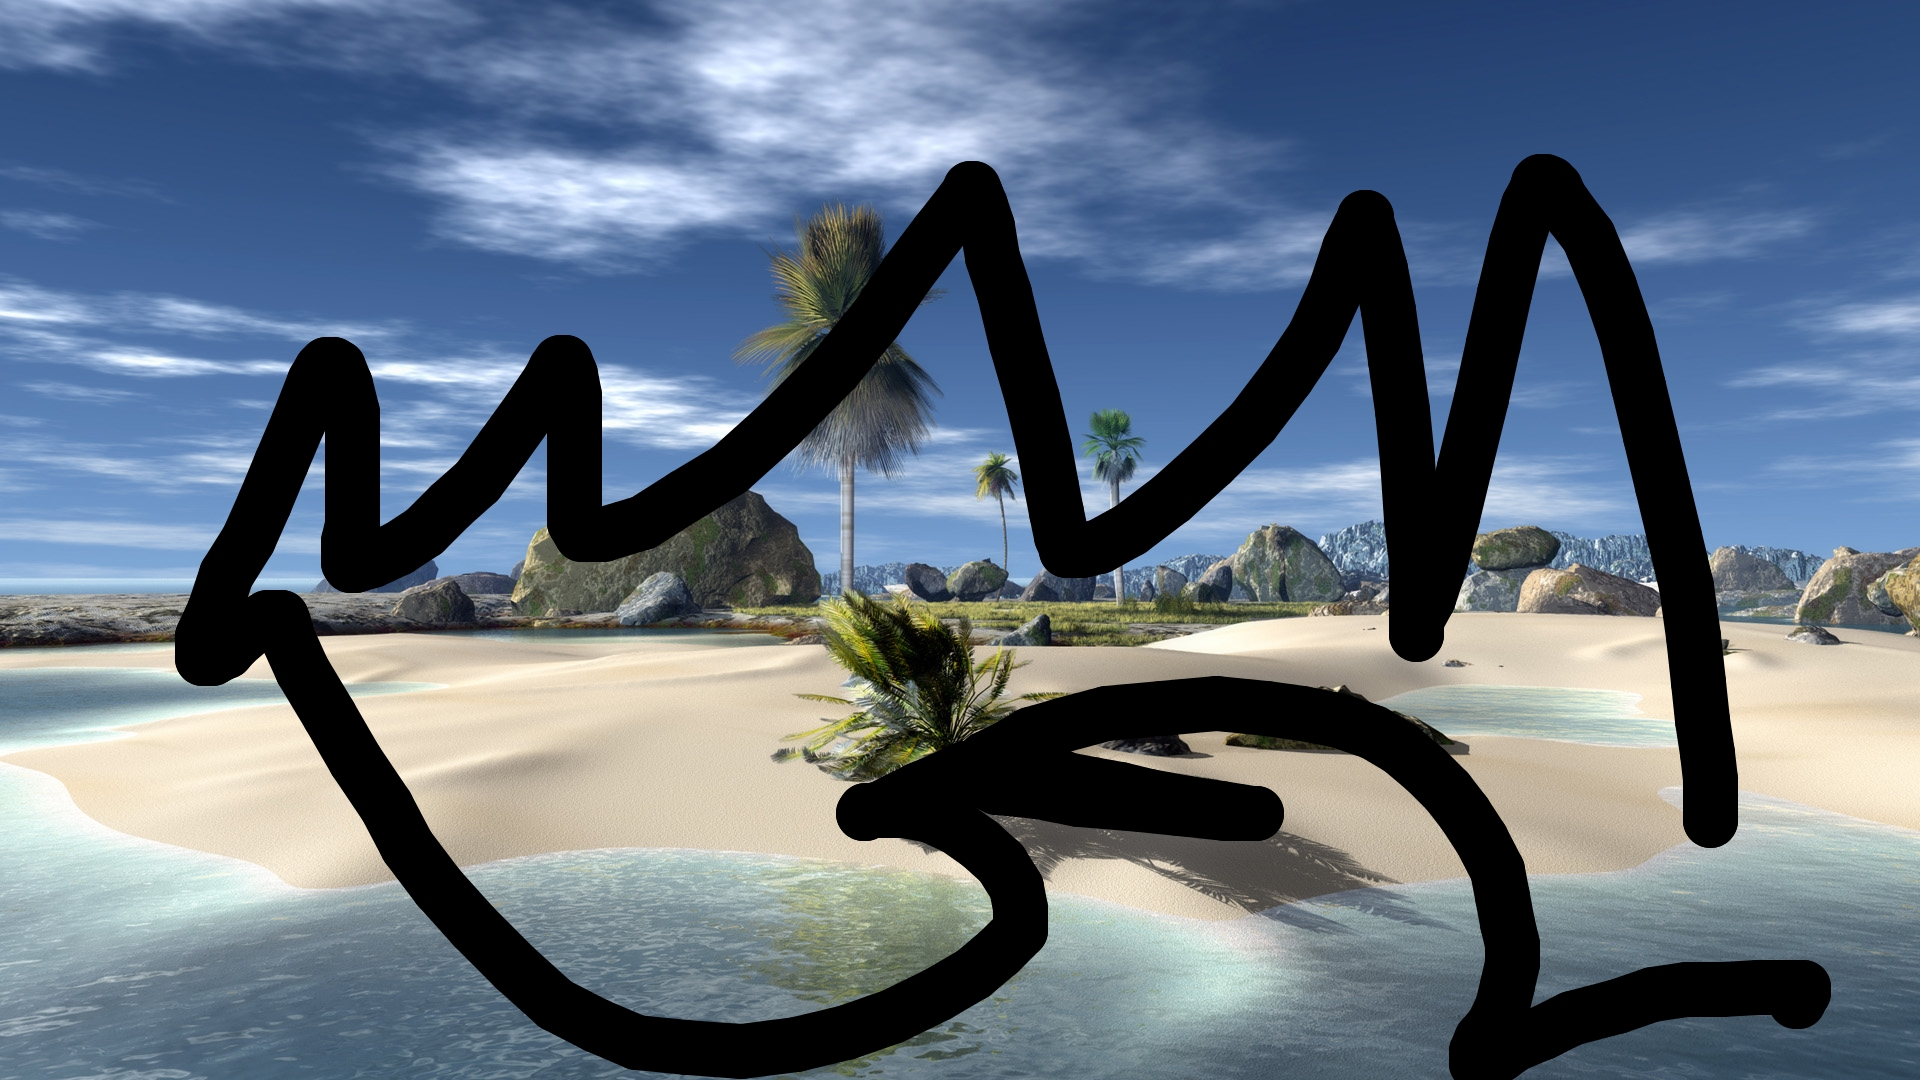
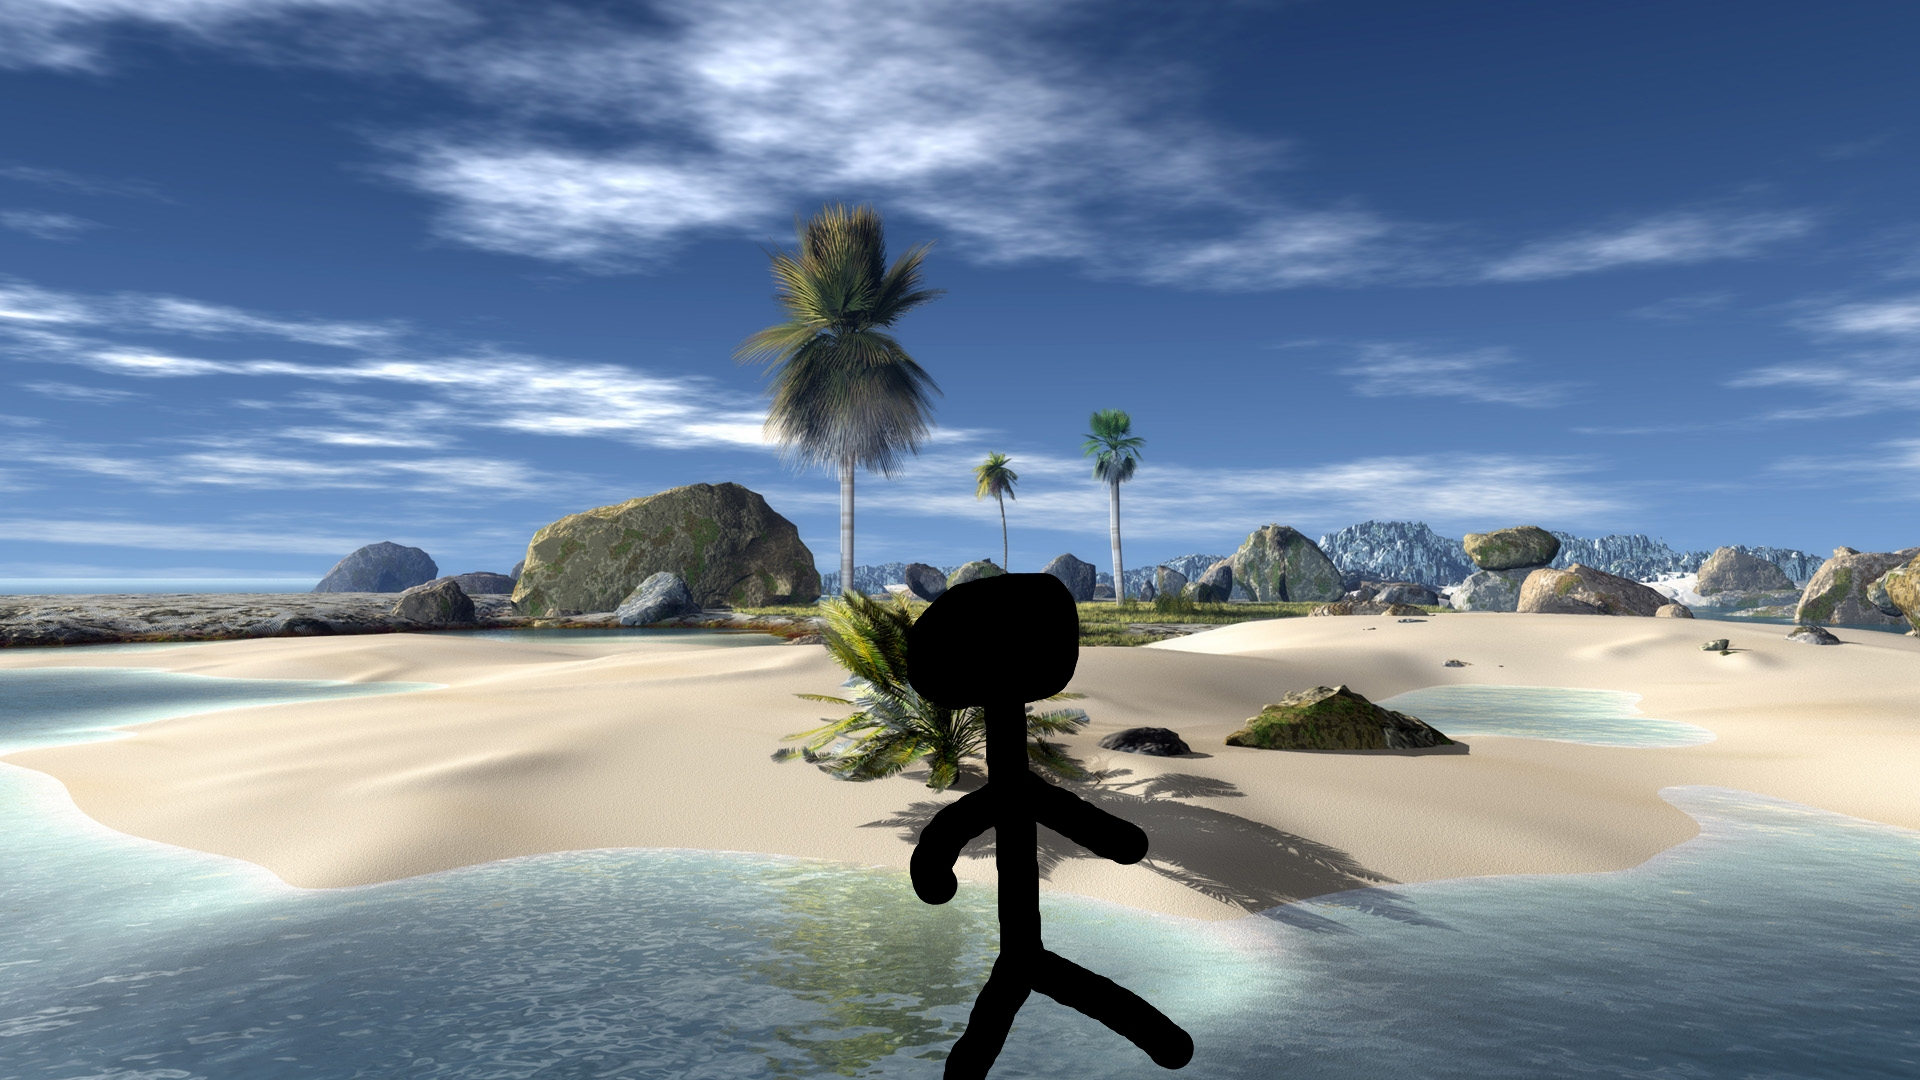
modified:   MakeFrame.cpp 	modified:   interact.jpg 	modified:   test.cpp
--> all working!!!
	TODO: add a camera to provide fill-stream.

Changed region(s): [[0.0938, 0.1222, 0.9688, 1.0]]

diff --git a/test.cpp b/test.cpp
@@ -1,7 +1,9 @@
-//gcc -I/usr/local/include/opencv -I/usr/local/include/opencv2 -L/usr/local/lib/ -g -o tst test.c -lopencv_core -lopencv_imgproc -lopencv_highgui
+//g++ -I/usr/local/include/opencv -I/usr/local/include/opencv2 -L/usr/local/lib/ -g -o tst MakeFrame.h MakeFrame.cpp test.cpp -lopencv_core -lopencv_imgproc -lopencv_highgui -lopencv_imgcodecs -lopencv_videoio
 
 #include <opencv/cv.h>
 #include <opencv2/highgui/highgui.hpp>
+#include <opencv2/videoio.hpp>
+#include <opencv2/opencv.hpp>
 #include <iostream>
 #include <time.h>
 
@@ -10,21 +12,22 @@
 using namespace cv;
 using namespace std;
 
-int main(int argc, char** argv)
+void testFrame(char* imgnm, char* ctrnm, char* imgcolornm, char* thresholdstr, char* countstr)
 {
-    cv::Mat img = imread(argv[1], CV_LOAD_IMAGE_GRAYSCALE);
-    cv::Mat ctr = imread(argv[2], CV_LOAD_IMAGE_GRAYSCALE);
-    cv::Mat imgcolor = imread(argv[3], CV_LOAD_IMAGE_COLOR);
+    cv::Mat img = imread(imgnm, CV_LOAD_IMAGE_GRAYSCALE);
+    cv::Mat ctr = imread(ctrnm, CV_LOAD_IMAGE_GRAYSCALE);
+    cv::Mat imgcolor = imread(imgcolornm, CV_LOAD_IMAGE_COLOR);
     
     int threshold;
-    sscanf(argv[4], "%d", &threshold);
+    sscanf(thresholdstr, "%d", &threshold);
     
     int count;
-    sscanf(argv[5], "%d", &count);
+    sscanf(countstr, "%d", &count);
     
     
     cv::Mat mask;
     cv::Mat result;
+    
     clock_t t0 = clock();
     
     for(int i = 0; i < count; i++)
@@ -35,18 +38,128 @@ int main(int argc, char** argv)
     cout << "time= " << (double)(clock() - t0) / CLOCKS_PER_SEC << "\n";
     
     
-    
-    
-    
-    
-    
     //*
     namedWindow( "Display window", CV_WINDOW_AUTOSIZE );
     imshow( "Display window", result );
     //*/
 
-    waitKey(0);                                          
+    waitKey(0); 
+}
+
+int testCamera()
+{
+    VideoCapture cap(0); // open the default camera
+    if(!cap.isOpened())  // check if we succeeded
+        return -1;
+    namedWindow("Video", 1);
+    for(;;)
+    {
+        Mat frame;
+        cap >> frame; // get a new frame from camera
+        imshow("Video", frame);
+        if(waitKey(27) >= 0) break;
+    }
+    return 0;
+}
+
+int makeControl()
+{
+    VideoCapture cap(0); // open the default camera
+    if(!cap.isOpened())  // check if we succeeded
+        return -1;
     
+    Mat frame;
+    cap >> frame; // get a new frame from camera
+    
+    imwrite("./testimages/control.jpg", frame);
+    
+    return 0;
+}
+
+int testLiveMask(char* nm, char* thresholdstr)
+{
+    Mat fill = imread(nm, CV_LOAD_IMAGE_COLOR);
+    Mat ctr = imread(nm, CV_LOAD_IMAGE_GRAYSCALE);
+    
+    int threshold;
+    sscanf(thresholdstr, "%d", &threshold);
+    
+    VideoCapture cap(0); // open the default camera
+    if(!cap.isOpened())  // check if we succeeded
+        return -1;
+    namedWindow("Video", 1);
+    for(;;)
+    {
+        Mat frame;
+        cap >> frame; // get a new frame from camera
+        cvtColor(frame, frame, 6);
+        Mat output = makeFrame(ctr, frame, fill, threshold);
+        imshow("Video", output);
+        if(waitKey(27) >= 0) break;
+    }
+    return 0;
+}
+
+int testVideoWrite(char* nm, char* outputnm, char* thresholdstr)
+{
+    Mat fill = imread(nm, CV_LOAD_IMAGE_COLOR);
+    Mat ctr = imread(nm, CV_LOAD_IMAGE_GRAYSCALE);
+    
+    int threshold;
+    sscanf(thresholdstr, "%d", &threshold);
+    
+    VideoCapture cap(0); // open the default camera
+    if(!cap.isOpened())  // check if we succeeded
+        return -1;
+    namedWindow("Video", 1);
+    
+    double w = cap.get(CV_CAP_PROP_FRAME_WIDTH); //get the width of frames of the video
+    double h = cap.get(CV_CAP_PROP_FRAME_HEIGHT); //get the height of frames of the video
+    
+    Size frameSize(static_cast<int>(w), static_cast<int>(h));
+    
+    VideoWriter output (outputnm, CV_FOURCC('H','2','6','4'), 20, frameSize, true);
+    
+    if ( !output.isOpened() ) //if not initialize the VideoWriter successfully, exit the program
+    {
+        cout << "ERROR: Failed to write the video" << endl;
+        return -1;
+    }
+    
+    for(;;)
+    {
+        Mat frame;
+        cap >> frame; // get a new frame from camera
+        cvtColor(frame, frame, 6);
+        Mat vframe = makeFrame(ctr, frame, fill, threshold);
+        imshow("Video", vframe);
+        output.write(vframe);
+        if(waitKey(27) >= 0) break;
+    }
+    return 0;
+}
+
+int main(int argc, char** argv)
+{
+    /*
+    testFrame(argv[1], argv[2], argv[3], argv[4], argv[5]);                                    
+    //*/
+    
+    /*
+    testCamera();
+    //*/
+    
+    /*
+    makeControl();
+    //*/
+    
+    /*
+    testLiveMask(argv[1], argv[2]);
+    //*/
+    
+    //*
+    testVideoWrite(argv[1], argv[2], argv[3]);
+    //*/
     return 0;
 }
 

diff --git a/MakeFrame.cpp b/MakeFrame.cpp
@@ -20,3 +20,4 @@ cv::Mat makeFrame(cv::Mat control, cv::Mat interaction, cv::Mat fill, int thresh
     
     return result;
 }
+
